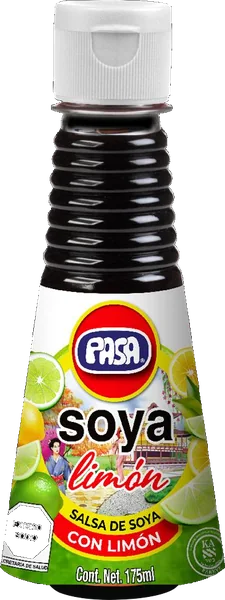
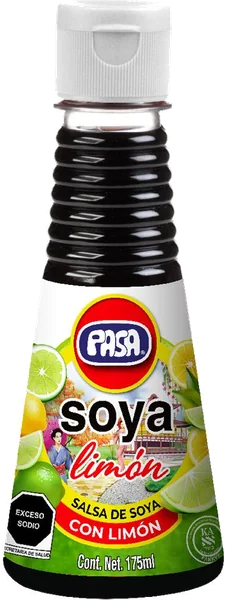
Actualización del sitio — 31/08/2026 20:22

diff --git a/productos.html b/productos.html
@@ -9,7 +9,7 @@
 <link rel="preconnect" href="https://fonts.googleapis.com" />
 <link rel="preconnect" href="https://fonts.gstatic.com" crossorigin />
 <link href="https://fonts.googleapis.com/css2?family=Karla:wght@400;600;700;800&family=Fraunces:ital,opsz,wght@0,9..144,600;0,9..144,800;0,9..144,900;1,9..144,700&display=swap" rel="stylesheet" />
-<link rel="stylesheet" href="styles.css?v=86" />
+<link rel="stylesheet" href="styles.css?v=87" />
 <style>
   /* ====== sub-nav sticky de categorías ====== */
   .catnav{position:sticky;top:var(--navh);z-index:80;background:rgba(250,247,240,.9);backdrop-filter:blur(14px);-webkit-backdrop-filter:blur(14px);border-bottom:1.5px solid var(--border)}
@@ -310,7 +310,7 @@
 
 <script src="https://cdn.jsdelivr.net/npm/gsap@3.12.5/dist/gsap.min.js"></script>
 <script src="https://cdn.jsdelivr.net/npm/gsap@3.12.5/dist/ScrollTrigger.min.js"></script>
-<script src="main.js?v=86"></script>
+<script src="main.js?v=87"></script>
 <script>
 /* =========================================================
    CATÁLOGO PASA — datos reales del sitio oficial
@@ -350,7 +350,7 @@ const CATALOGO = [
     sizes:['175 ml','250 ml','500 ml','1 L','3.85 L','20 L'],
     feats:['45% menos sal','Dietas bajas en sodio','Ensaladas y verduras al vapor'] },
   { cat:'soyas', tone:'#C9D6A8', chip:'Soya', name:'Soya Limón',
-    img:'assets/p-soya-limon.webp?r=3',
+    img:'assets/p-soya-limon.webp?r=4',
     desc:'Salsa de soya con el toque cítrico del limón. El equilibrio entre el umami de la soya y la frescura del limón, listo para usar.',
     sizes:['175 ml','250 ml','500 ml','1 L','3.85 L','20 L'],
     feats:['Mariscos y ceviches','Botanas y micheladas','Ensaladas y verduras'] },

diff --git a/nosotros.html b/nosotros.html
@@ -9,7 +9,7 @@
 <link rel="preconnect" href="https://fonts.googleapis.com" />
 <link rel="preconnect" href="https://fonts.gstatic.com" crossorigin />
 <link href="https://fonts.googleapis.com/css2?family=Karla:wght@400;600;700;800&family=Fraunces:ital,opsz,wght@0,9..144,600;0,9..144,800;0,9..144,900;1,9..144,700&display=swap" rel="stylesheet" />
-<link rel="stylesheet" href="styles.css?v=86" />
+<link rel="stylesheet" href="styles.css?v=87" />
 <style>
   .story{background:var(--crema)}
   .story-grid{display:grid;grid-template-columns:1.1fr 1fr;gap:clamp(2rem,5vw,4.5rem);align-items:center;position:relative;z-index:1}
@@ -248,6 +248,6 @@
 
 <script src="https://cdn.jsdelivr.net/npm/gsap@3.12.5/dist/gsap.min.js"></script>
 <script src="https://cdn.jsdelivr.net/npm/gsap@3.12.5/dist/ScrollTrigger.min.js"></script>
-<script src="main.js?v=86"></script>
+<script src="main.js?v=87"></script>
 </body>
 </html>

diff --git a/index.html b/index.html
@@ -13,7 +13,7 @@
 <link rel="preconnect" href="https://fonts.googleapis.com" />
 <link rel="preconnect" href="https://fonts.gstatic.com" crossorigin />
 <link href="https://fonts.googleapis.com/css2?family=Karla:wght@400;600;700;800&family=Fraunces:ital,opsz,wght@0,9..144,600;0,9..144,800;0,9..144,900;1,9..144,700&display=swap" rel="stylesheet" />
-<link rel="stylesheet" href="styles.css?v=86" />
+<link rel="stylesheet" href="styles.css?v=87" />
 <style>
   /* ===== HERO HOME ===== */
   /* fondo sobrio: crema cálido con un velo de arena.
@@ -416,7 +416,7 @@
 
 <script src="https://cdn.jsdelivr.net/npm/gsap@3.12.5/dist/gsap.min.js"></script>
 <script src="https://cdn.jsdelivr.net/npm/gsap@3.12.5/dist/ScrollTrigger.min.js"></script>
-<script src="main.js?v=86"></script>
+<script src="main.js?v=87"></script>
 <script>
 /* ================= QUIZ ¿QUÉ SABOR ERES? ================= */
 (function(){

diff --git a/contacto.html b/contacto.html
@@ -9,7 +9,7 @@
 <link rel="preconnect" href="https://fonts.googleapis.com" />
 <link rel="preconnect" href="https://fonts.gstatic.com" crossorigin />
 <link href="https://fonts.googleapis.com/css2?family=Karla:wght@400;600;700;800&family=Fraunces:ital,opsz,wght@0,9..144,600;0,9..144,800;0,9..144,900;1,9..144,700&display=swap" rel="stylesheet" />
-<link rel="stylesheet" href="styles.css?v=86" />
+<link rel="stylesheet" href="styles.css?v=87" />
 <style>
   .contact-sec{background:var(--crema)}
   .contact-info h2{font-size:clamp(1.9rem,3.8vw,2.7rem);margin:.9rem 0 1rem}
@@ -187,6 +187,6 @@
 
 <script src="https://cdn.jsdelivr.net/npm/gsap@3.12.5/dist/gsap.min.js"></script>
 <script src="https://cdn.jsdelivr.net/npm/gsap@3.12.5/dist/ScrollTrigger.min.js"></script>
-<script src="main.js?v=86"></script>
+<script src="main.js?v=87"></script>
 </body>
 </html>

diff --git a/recetas.html b/recetas.html
@@ -9,7 +9,7 @@
 <link rel="preconnect" href="https://fonts.googleapis.com" />
 <link rel="preconnect" href="https://fonts.gstatic.com" crossorigin />
 <link href="https://fonts.googleapis.com/css2?family=Karla:wght@400;600;700;800&family=Fraunces:ital,opsz,wght@0,9..144,600;0,9..144,800;0,9..144,900;1,9..144,700&display=swap" rel="stylesheet" />
-<link rel="stylesheet" href="styles.css?v=86" />
+<link rel="stylesheet" href="styles.css?v=87" />
 <style>
   /* cada receta en su propia franja, separadas por la misma onda del hero */
   .recipes{background:var(--crema)}
@@ -230,6 +230,6 @@
 
 <script src="https://cdn.jsdelivr.net/npm/gsap@3.12.5/dist/gsap.min.js"></script>
 <script src="https://cdn.jsdelivr.net/npm/gsap@3.12.5/dist/ScrollTrigger.min.js"></script>
-<script src="main.js?v=86"></script>
+<script src="main.js?v=87"></script>
 </body>
 </html>
